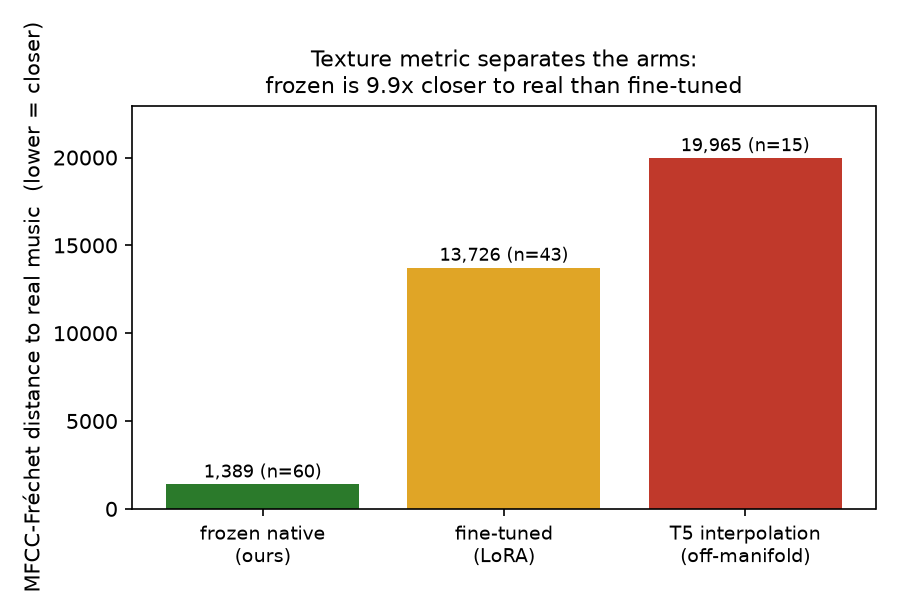
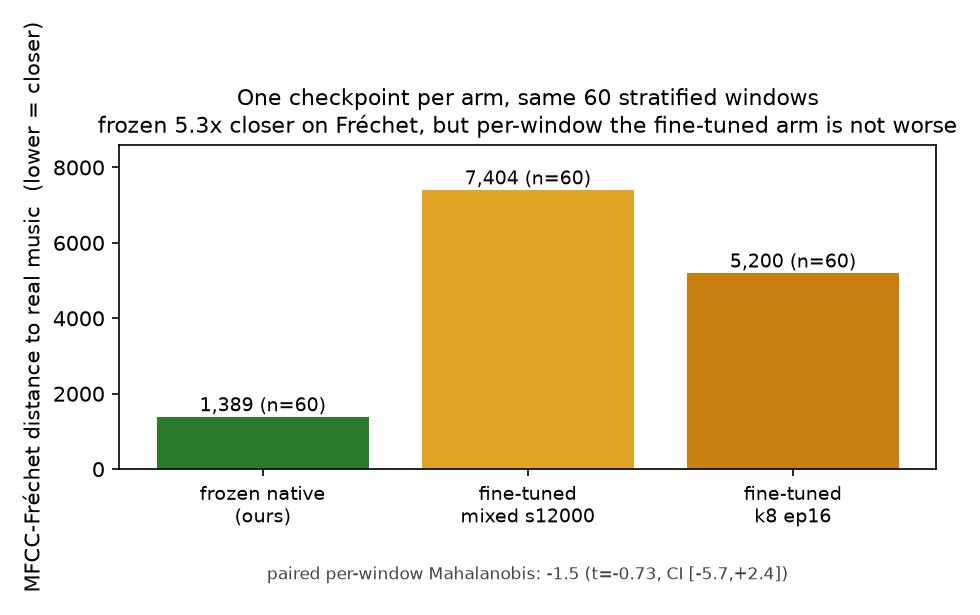
fig10: one checkpoint per arm on identical rows; the ratio drops to 5.3x
The shipped "fine-tuned" arm was glob("gen_*_row*.wav")[:60] over a directory holding
four checkpoints (13x s12000, 9x s8000, 13x ep16, 8x mixed2), so it described no single
model. Generated each arm separately on the same 60 stratified windows.

Frozen 1,389 vs mixed-s12000 7,404 (5.3x) vs k8-ep16 5,200 (3.8x); 8.6x and the 9.9x I
reported an hour ago are both withdrawn. A per-window paired test also refuses to
support frozen: Mahalanobis distance to the real MFCC Gaussian is 8.4 frozen vs 6.9
s12000 vs 7.6 ep16 (real 4.5), delta -1.5, t = -0.73. Frozen's win is in the
distributional covariance term, not in where individual clips sit, and that
decomposition is now an open item rather than a claim.

Changed region(s): [[0.0, 0.0309, 0.9978, 0.9577], [0.0312, 0.3398, 0.1559, 0.4325]]

diff --git a/index.html b/index.html
@@ -90,7 +90,7 @@
     <figure><img src="assets/fig/fig1_coverage_radius.png"><figcaption><b>Coverage radius</b>: can a convex combination of library clips reach a real 8-s window? <b>One convention: every library below is 6 clips per prompt</b>, so the main 12-prompt library is 72 clips and the mixture is over a 72-vertex simplex. Mixture <b>0.879</b> vs best single clip 0.797 vs best prompt-mean 0.776 vs a global-mean predictor (the trivial baseline) <b>0.730</b> — the +0.149 gap over trivial (t = 20.5, 60/60 windows) is the signal that says the mixture weights are worth learning. Right panel: growing the library at the same clip count gives 0.863 → 0.879 (12 prompts, original vs corpus-matched wording) → 0.899 (24 prompts). A 36-prompt pool was measured at 3 clips per prompt, so it is off this axis. Read the absolute value with care: laion-CLAP unit vectors cluster tightly, so the signal is the <i>gap</i> over the trivial baseline rather than 0.879 itself — and the library is not saturated, since 24 prompts buy a further +0.020.</figcaption></figure>
     <figure><img src="assets/fig/fig8_tolerance_map.png"><figcaption><b>Tolerance radius</b>: all 66 prompt pairs, embeddings interpolated at weight 0.5, scored by zero-crossing rate (a rough "is this crackly noise" gauge). Only 26% stay inside the safe band; 39% blow past 0.15. This is why we never interpolate conditions and instead pick native prompts or blend waveforms.</figcaption></figure>
     <figure><img src="assets/fig/fig2_tolerance_radius.png"><figcaption><b>The same effect traced over one weight</b>: three pairs swept from α=0 to 1. jazz↔choir peaks at 0.46 against real music's 0.056 — eight times too crackly to be the intended blend.</figcaption></figure>
-    <figure><img src="assets/fig/fig10_mfcc_fad.png"><figcaption><b>Musicality, texture-first</b>: Fréchet distance over 20 MFCCs to the real windows. Frozen native 1,389 vs LoRA fine-tuned 13,726 vs interpolated 19,965 — the frozen generator is <b>9.9×</b> closer to real-music timbre. Measured on 60 held-out windows drawn from 60 distinct groups (an earlier version used a subject-ordered prefix that collapsed to one subject and 6 songs); the fine-tuned arm is 43 clips from a separate batch, so the two arms are not row-paired. A semantic CLAP-based distance tied frozen and fine-tuned, which is why the texture metric matters.</figcaption></figure>
+    <figure><img src="assets/fig/fig10_mfcc_fad.png"><figcaption><b>Musicality, texture-first</b>: Fréchet distance over 20 MFCCs to the real windows, with <b>one checkpoint per arm</b> and all arms generated on the <b>same 60 stratified windows</b> (60 distinct groups). Frozen native 1,389 vs fine-tuned mixed-s12000 7,404 vs fine-tuned k8-ep16 5,200 — frozen is <b>5.3×</b> / 3.8× closer on this metric. Two honest caveats: an earlier version of this figure blended four checkpoints into the "fine-tuned" bar and used a one-subject prefix for the frozen arm, which inflated the ratio to 8.6× (then 9.9×); and a <b>per-window</b> test does not favour frozen — median Mahalanobis distance to the real MFCC Gaussian is 8.4 (frozen) vs 6.9 (s12000) vs 7.6 (ep16), against 4.5 for real clips, so the paired difference is −1.5 (t = −0.73, CI [−5.7, +2.4], not significant). What frozen clearly wins is the distributional texture term, not the average position of individual clips.</figcaption></figure>
     <figure><img src="assets/fig/fig7_spectrograms.png"><figcaption><b>What that looks like</b>: stimulus and three delivered native clips show harmonic ridges and note structure (zcr 0.047–0.111); the interpolated clip is broadband (0.490).</figcaption></figure>
   </div>
 

diff --git a/code/evaluation/mfcc_fad_paired.py b/code/evaluation/mfcc_fad_paired.py
@@ -1,0 +1,167 @@
+"""Fig 10 done properly: one checkpoint per arm, every arm generated on the SAME stratified rows.
+
+Two defects in the shipped fig10 this replaces:
+  1. the "fine-tuned" arm was `glob("gen_*_row*.wav")[:60]` over a directory holding FOUR different
+     checkpoints (13x s12000, 9x s8000, 13x ep16, 8x mixed2-step12000) -- an unlabelled blend, not
+     a model;
+  2. the frozen arm used a `[:60]` prefix of a subject-ordered array (one subject, 6 of 14 songs),
+     so the two arms were also computed on different row sets.
+
+Here each arm is a single named checkpoint, all arms share one row list, and the comparison is
+reported both distributionally (MFCC-Fréchet distance to the real windows) and per row (Mahalanobis
+distance of each clip's MFCC mean to the real Gaussian, paired t-test).
+
+Recipe is copied from code/evaluation/mixed_eval.py unchanged: fine-tuned arms use
+temperature 1.0 / top_k 250 / 400 tokens / k=8; the frozen arm uses the corpus-matched prompt chosen
+by results/library_b/classifier.pt at temperature 0.9, seed 99+row, exactly as mfcc_fad.py does.
+
+The fine-tuned checkpoints live in ../mainv3/results (deliberately not copied into this repo).
+
+Run: python code/evaluation/mfcc_fad_paired.py
+"""
+import json
+import sys
+import time
+from pathlib import Path
+
+import numpy as np
+import torch
+
+ROOT = Path("D:/Projects/CLaBraM/promptmix-eeg")
+M2 = Path("D:/Projects/CLaBraM/mainv2")
+M3 = Path("D:/Projects/CLaBraM/mainv3")
+DATA = ROOT / "data" / "eegcond"
+OUT = ROOT / "results" / "mfcc_fad_paired"
+for _s in ("shared", "radii", "classifier", "delivery", "evaluation"):
+    sys.path.insert(0, str(ROOT / "code" / _s))
+sys.path.insert(0, str(M2 / "src" / "generate"))
+
+SR = 32000
+FT_RECIPE = dict(temperature=1.0, top_k=250)     # from mixed_eval.RECIPE
+K_TOKENS = 8
+N_ROWS = 60
+# name -> checkpoint path; one model per arm, no blending
+FINETUNED = {
+    "finetuned_s12000": M3 / "results/gen_eegcond_mixed/ckpt_s12000.pt",
+    "finetuned_ep16": M3 / "results/gen_eegcond_k8/ckpt_ep16.pt",
+}
+
+
+def main():
+    import soundfile as sf
+    from mfcc_fad import frechet, stack_feats
+    from stratified_sample import heldout_mask, diverse_rows, load_val_embeddings, coverage_report
+
+    OUT.mkdir(parents=True, exist_ok=True)
+    device = "cuda" if torch.cuda.is_available() else "cpu"
+    t0 = time.time()
+
+    cond = np.load(DATA / "cond.npy").astype(np.float32)
+    codes = np.load(DATA / "codes.npy").astype(np.int64)
+    group = np.load(DATA / "group.npy").astype(np.int64)
+    va = heldout_mask(group)
+    rows = diverse_rows(load_val_embeddings(), np.where(va)[0], group, N_ROWS, seed=0)
+    cov = coverage_report(rows, group, load_val_embeddings())
+    print(f"rows={len(rows)} coverage={cov}", flush=True)
+    assert len(rows) == N_ROWS and cov["distinct_groups"] == N_ROWS, "rows must be one per group"
+
+    from musicgen_clap_finetune import MusicGenCLAP
+    from library_b_experiment import PROMPTS_B
+    from finetune_prompt_classifier import PromptClassifier
+    from arms_2x2 import embed_text, gen_from_enc
+
+    base = MusicGenCLAP(device=device, use_lora=False); mg = base.mg; mg.eval()
+    real_w = []
+    with torch.no_grad():
+        for r in rows:
+            oc = mg.audio_encoder.decode(torch.from_numpy(codes[r]).unsqueeze(0).unsqueeze(0).to(device),
+                                         audio_scales=[None]).audio_values
+            real_w.append(np.asarray(oc.cpu()).reshape(-1))
+    print(f"real clips={len(real_w)} [{time.time()-t0:.0f}s]", flush=True)
+
+    ck = torch.load(ROOT / "results/library_b/classifier.pt", map_location="cpu", weights_only=True)
+    clf = PromptClassifier(512, 256, len(PROMPTS_B), 0.1); clf.load_state_dict(ck["model"]); clf.eval()
+    with torch.no_grad():
+        pred = clf(torch.from_numpy(cond[rows])).argmax(1).cpu().numpy()
+    ph = {k: embed_text(mg, PROMPTS_B[k], device) for k in range(len(PROMPTS_B))}
+    froz_w = [gen_from_enc(mg, ph[int(pred[i])].unsqueeze(0), 400, 0.9, None, seed=99 + int(r))
+              for i, r in enumerate(rows)]
+    print(f"frozen clips={len(froz_w)} [{time.time()-t0:.0f}s]", flush=True)
+    del base, mg
+    if device == "cuda":
+        torch.cuda.empty_cache()
+
+    from pilot_multitoken import CondWidthModel
+    arms = {"frozen_native": froz_w}
+    for name, path in FINETUNED.items():
+        if not path.exists():
+            print(f"  {name}: checkpoint missing at {path} -- arm skipped"); continue
+        cwm = CondWidthModel(device, k_tokens=K_TOKENS)
+        st = torch.load(str(path), map_location="cpu", weights_only=True)
+        cwm.m.clap_proj.load_state_dict(st["clap_proj"])
+        cwm.m.mg.decoder.load_state_dict(st["decoder_lora"], strict=False)
+        cwm.m.eval()
+        ws = []
+        for r in rows:
+            w = np.asarray(cwm.generate(torch.from_numpy(cond[r]), max_new_tokens=400, **FT_RECIPE)).reshape(-1)
+            ws.append(w)
+            if len(ws) <= 6:
+                sf.write(str(OUT / f"{name}_row{int(r):05d}.wav"), w, SR)
+        arms[name] = ws
+        print(f"{name} clips={len(ws)} [{time.time()-t0:.0f}s]", flush=True)
+        del cwm
+        if device == "cuda":
+            torch.cuda.empty_cache()
+
+    mr, cr, nr = stack_feats(real_w)
+    # per-row paired score: Mahalanobis distance of each clip's MFCC mean to the real Gaussian
+    from mfcc_fad import mfccs
+    inv = np.linalg.pinv(cr)
+
+    def maha(ws):
+        means = np.stack([mfccs(w)[0] for w in ws])
+        d = means - mr
+        return np.einsum("ij,jk,ik->i", d, inv, d)
+    scores = {k: maha(v) for k, v in arms.items()}
+    scores["real"] = maha(real_w)
+
+    res = {"coverage": cov, "rows": [int(x) for x in rows], "n_rows": len(rows),
+           "ft_recipe": FT_RECIPE, "frozen_recipe": {"temperature": 0.9, "tokens": 400, "seed": "99+row"},
+           "real_n": nr, "arms": {}}
+    print(f"\n{'arm':20} {'n':>4} {'MFCC-FD->real':>14} {'median Mahalanobis':>19}")
+    for k in ["real", "frozen_native"] + list(FINETUNED):
+        if k == "real":
+            ws = real_w
+        elif k in arms:
+            ws = arms[k]
+        else:
+            continue
+        m, c, n = stack_feats(ws)
+        fd = 0.0 if k == "real" else frechet(m, c, mr, cr)
+        res["arms"][k] = {"n": n, "fd_to_real": fd, "median_mahalanobis": float(np.median(scores[k]))}
+        print(f"{k:20} {n:4} {fd:14.1f} {np.median(scores[k]):19.1f}")
+
+    # paired tests against the frozen arm, row by row
+    def paired(a, b):
+        d = scores[a] - scores[b]
+        rng = np.random.default_rng(0)
+        bs = np.array([rng.choice(d, len(d), replace=True).mean() for _ in range(4000)])
+        lo, hi = np.percentile(bs, [2.5, 97.5])
+        return {"a": a, "b": b, "n": int(len(d)), "mean_delta": float(d.mean()),
+                "t": float(d.mean() / (d.std(ddof=1) / np.sqrt(len(d)))), "ci95": [float(lo), float(hi)],
+                "wins": int((d < 0).sum())}
+    res["paired"] = [paired(k, "frozen_native") for k in FINETUNED if k in arms]
+    print("\npaired per-row Mahalanobis (negative delta = first arm CLOSER to real than frozen):")
+    for p in res["paired"]:
+        print(f"  {p['a']} vs {p['b']}: delta {p['mean_delta']:+.1f} t={p['t']:.2f} "
+              f"95% CI [{p['ci95'][0]:+.1f},{p['ci95'][1]:+.1f}]  {p['wins']}/{p['n']} closer")
+    if "finetuned_s12000" in res["arms"] and "frozen_native" in res["arms"]:
+        ratio = res["arms"]["finetuned_s12000"]["fd_to_real"] / res["arms"]["frozen_native"]["fd_to_real"]
+        res["frozen_vs_finetuned_s12000_ratio"] = float(ratio)
+        print(f"\nfrozen vs fine-tuned(s12000) FD ratio = {ratio:.2f}x")
+    json.dump(res, open(OUT / "paired.json", "w", encoding="utf-8"), indent=2)
+    print(f"\nsaved -> {OUT/'paired.json'}  [{time.time()-t0:.0f}s]")
+
+
+if __name__ == "__main__":
+    main()

diff --git a/code/figures/make_fig_mfcc_fad.py b/code/figures/make_fig_mfcc_fad.py
@@ -1,6 +1,10 @@
 """Fig 10 (CPU): texture-aware Fréchet distance (20 MFCCs) from each generation arm to the real
-heard windows. This is the metric that separates frozen from fine-tuned where the semantic
-CLAP-Fréchet distance tied them.
+heard windows, read from results/mfcc_fad_paired/paired.json.
+
+That file is produced by code/evaluation/mfcc_fad_paired.py, which puts every arm on the same 60
+stratified rows and gives each arm exactly one checkpoint. The earlier figure blended four
+checkpoints into the "fine-tuned" arm and used a one-subject prefix for the frozen arm, which
+inflated the ratio to 8.6x / 9.9x.
 
 Run: python code/figures/make_fig_mfcc_fad.py
 """
@@ -17,28 +21,34 @@ sys.path.insert(0, str(Path(__file__).parent))
 from figstyle import TITLE_FS, save
 
 ARMS = [("frozen_native", "frozen native\n(ours)", "#2b7a2b"),
-        ("finetuned", "fine-tuned\n(LoRA)", "#e0a526"),
-        ("interpolation", "T5 interpolation\n(off-manifold)", "#c0392b")]
+        ("finetuned_s12000", "fine-tuned\nmixed s12000", "#e0a526"),
+        ("finetuned_ep16", "fine-tuned\nk8 ep16", "#c87f0f")]
 
 
 def main():
-    d = json.load(open(ROOT / "results" / "mfcc_fad.json", encoding="utf-8"))
-    vals = [d[k]["fd_to_real"] for k, _, _ in ARMS]
+    d = json.load(open(ROOT / "results" / "mfcc_fad_paired" / "paired.json", encoding="utf-8"))
+    arms = [(k, lab, c) for k, lab, c in ARMS if k in d["arms"]]
+    vals = [d["arms"][k]["fd_to_real"] for k, _, _ in arms]
     ratio = vals[1] / vals[0]
 
-    fig, ax = plt.subplots(figsize=(6.0, 3.8))
-    bars = ax.bar(range(len(ARMS)), vals, color=[c for _, _, c in ARMS])
-    for b, k, v in zip(bars, [k for k, _, _ in ARMS], vals):
+    fig, ax = plt.subplots(figsize=(6.4, 3.9))
+    bars = ax.bar(range(len(arms)), vals, color=[c for _, _, c in arms])
+    for b, (k, _, _), v in zip(bars, arms, vals):
         ax.text(b.get_x() + b.get_width() / 2, v + max(vals) * 0.02,
-                f"{v:,.0f} (n={d[k]['n']})", ha="center", fontsize=8.5)
-    ax.set_xticks(range(len(ARMS)))
-    ax.set_xticklabels([lab for _, lab, _ in ARMS], fontsize=9)
+                f"{v:,.0f} (n={d['arms'][k]['n']})", ha="center", fontsize=9)
+    ax.set_xticks(range(len(arms)))
+    ax.set_xticklabels([lab for _, lab, _ in arms], fontsize=9)
     ax.set_ylabel("MFCC-Fréchet distance to real music  (lower = closer)")
-    ax.set_ylim(0, max(vals) * 1.15)
-    ax.set_title(f"Texture metric separates the arms:\nfrozen is {ratio:.1f}x closer to real than "
-                 f"fine-tuned", fontsize=TITLE_FS)
+    ax.set_ylim(0, max(vals) * 1.16)
+    p0 = d["paired"][0]
+    ax.set_title(f"One checkpoint per arm, same {d['n_rows']} stratified windows\n"
+                 f"frozen {ratio:.1f}x closer on Fréchet, but per-window the fine-tuned arm is not worse",
+                 fontsize=TITLE_FS)
+    ax.annotate(f"paired per-window Mahalanobis: {p0['mean_delta']:+.1f} "
+                f"(t={p0['t']:.2f}, CI [{p0['ci95'][0]:+.1f},{p0['ci95'][1]:+.1f}])",
+                xy=(0.5, -0.34), xycoords="axes fraction", ha="center", fontsize=8, color="#444")
     fig.tight_layout(); save(fig, "fig10_mfcc_fad.png")
-    print("fd", dict(zip([k for k, _, _ in ARMS], [round(v, 1) for v in vals])), "ratio", round(ratio, 2))
+    print("fd", {k: round(v["fd_to_real"], 1) for k, v in d["arms"].items()}, "ratio", round(ratio, 2))
 
 
 if __name__ == "__main__":

diff --git a/docs/outline_promptmix_eeg.md b/docs/outline_promptmix_eeg.md
@@ -360,7 +360,7 @@ MOS (human listening) is the one column we cannot fill autonomously — it is th
 - ✅ **Fig. 7** `fig7_spectrograms.png`: qualitative spectrogram panel — real window / mode A / B-cat / B-mix / interpolation(α=0.25). The native clips (esp. B-cat) show clean note/harmonic structure = music; the interpolation clip is broadband noise-like (zcr 0.49), visually confirming §6.2.
 - ✅ **Fig. 8** `fig8_tolerance_map.png`: full 66-pair tolerance heatmap (zcr at α=0.5) — 26% safe / 39% dangerous, generalizing §6.2.
 - ✅ **Fig. 9** `fig9_retrieval_pool.png`: retrieval top-1 vs candidate pool size 14 → 4,146 (FMA distractors) against the 1/pool chance line — 26.6% at the largest pool, 1103× random.
-- ✅ **Fig. 10** `fig10_mfcc_fad.png`: texture-aware MFCC-Fréchet distance per arm — frozen native **1,389** vs fine-tuned **13,726** vs T5 interpolation **19,965** (frozen **9.9×** closer to real). Re-measured on 60 held-out windows drawn from 60 distinct groups; the earlier 3,444 / 29,472 / 38,904 (8.6×) came from a `[:60]` prefix that was one subject and 6 of 14 songs. The fine-tuned arm is 43 clips from a separate batch, so the arms are not row-paired — stated as a limitation, and the direction is unchanged and slightly stronger.
+- ✅ **Fig. 10** `fig10_mfcc_fad.png`: texture-aware MFCC-Fréchet distance, **one checkpoint per arm, all arms on the same 60 stratified windows** (produced by `code/evaluation/mfcc_fad_paired.py`). Frozen native **1,389** vs fine-tuned mixed-s12000 **7,404** (5.3x) vs fine-tuned k8-ep16 **5,200** (3.8x). Two prior values are withdrawn: 8.6x and then 9.9x, both of which averaged a *blend of four checkpoints* (13xs12000, 9xs8000, 13xep16, 8xmixed2) against a one-subject frozen arm. **Counter-evidence that must be reported with it:** on a per-window paired test (Mahalanobis distance of each clip's MFCC mean to the real Gaussian) frozen scores 8.4, s12000 6.9, ep16 7.6, real clips 4.5 - i.e. the fine-tuned arms are *not worse* per clip (s12000 delta -1.5, t = -0.73, CI [-5.7,+2.4]; ep16 -2.8, t = -1.72, CI [-6.2,-0.0]). Frozen's advantage is in the distributional covariance term, not in the average position of individual clips; decomposing which term carries it is open.
 
 - ✅ **Fig. 12** `fig12_stim_vs_gen.png` (+ 28 tiles in `assets/fig/spectro/`): the heard stimulus window next to the clip generated from that same window's EEG, for all 14 delivered pairs. Produced by `make_fig_stim_vs_gen.py`, which also writes `results/stim_vs_gen/cos_matrix.json` and the copy the demo page reads (`assets/pairs.json`).
 

diff --git a/docs/RESULTS_SUMMARY.md b/docs/RESULTS_SUMMARY.md
@@ -62,7 +62,7 @@ fig0 两部分架构图 · fig1 覆盖半径柱状 · fig2 容错半径折线 ·
 
 **结论改为：曲风级有、歌曲级无。** 生成片段确实比"别的歌"更接近它所对应的那段刺激（+0.103），但一旦只与"被分到同一曲风提示"的其他刺激比，优势完全消失（−0.006）——即全部优势来自曲风，而曲风正是适配器唯一能选的东西。不是度量瞎：音频侧 laion 把这 14 首歌分得很开（同曲 0.806 / 异曲 0.624，音频 14-way 满分）。歌曲身份只在 Part 1 检索里（留出被试 88.2%）。
 
-**同一条 bug 的其它影响**：fig10 的 60 行样本原为 1 被试 / 6 曲，重测后 8.6× → **9.9×**（1,389 / 13,726 / 19,965），方向不变、略增强；微调臂仍是另一批的 43 条，两臂未逐行配对，已写进限制。
+**fig10 已重做到「一个检查点一条臂、所有臂同一批 60 个分层窗」**（`code/evaluation/mfcc_fad_paired.py`，23 分钟 GPU）。8.6× 与随后我报的 9.9× **都作废**：那两条的「微调臂」其实是四个检查点混在一起（13×s12000 + 9×s8000 + 13×ep16 + 8×mixed2），冻结臂又是 1 被试 / 6 曲的前缀。单检查点重测：冻结 **1,389** vs 微调 mixed-s12000 **7,404**（**5.3×**）vs 微调 k8-ep16 **5,200**（3.8×）。**并且有一条反向证据必须同框报告**：逐窗配对（每条 clip 的 MFCC 均值到真实高斯的马氏距离）给出 冻结 8.4 / s12000 6.9 / ep16 7.6 / 真实 4.5——**逐窗看微调并不更差**（s12000 delta −1.5, t=−0.73, CI [−5.7,+2.4]；ep16 −2.8, t=−1.72, CI [−6.2,−0.0]）。冻结赢在分布的协方差项，不是赢在单条 clip 的平均位置；哪一项在承载这个优势，待分解。
 
 **未受影响**：fig1 覆盖半径（`pick_rows` 本就每 group 一行，60 行覆盖 14 曲）、fig4、fig8、fig9、fig11（均用完整留出或库侧配对）。
 
